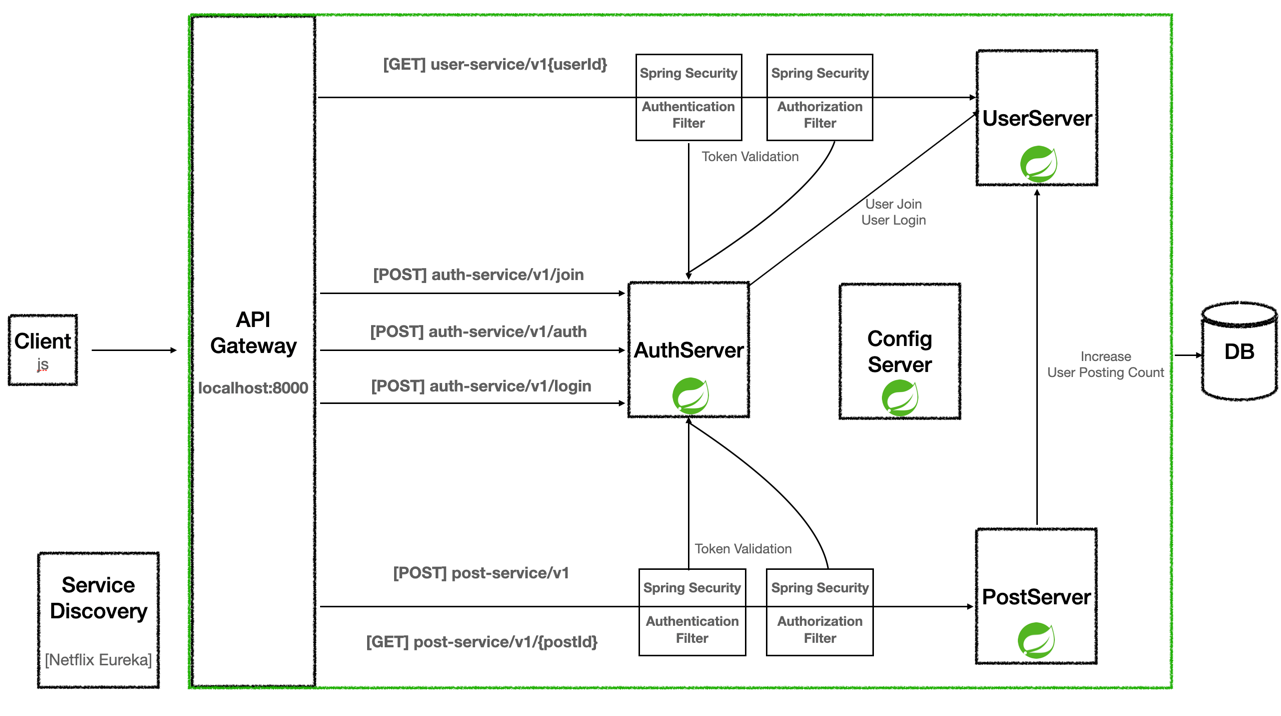
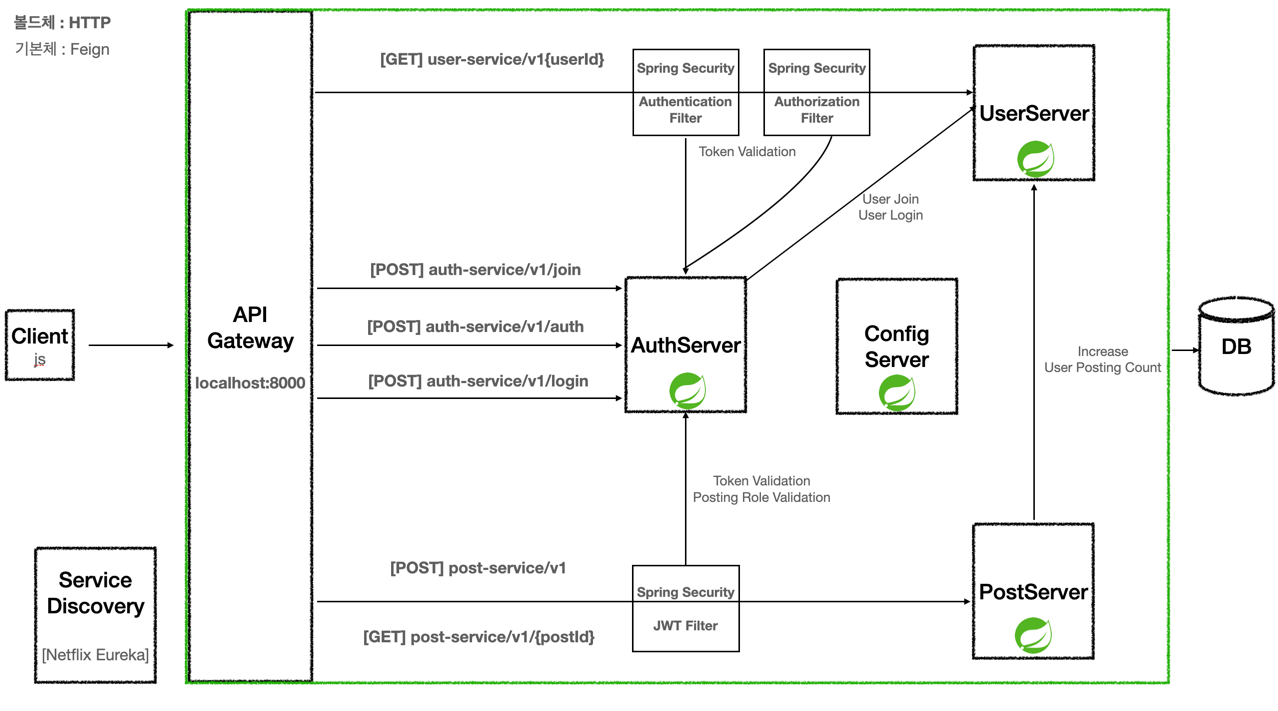
DOCS

diff --git a/diger-auth-server/src/main/java/com/smilegate/digerauthserver/feign/UserFeignClient.java b/diger-auth-server/src/main/java/com/smilegate/digerauthserver/feign/UserFeignClient.java
@@ -1,15 +1,14 @@
-package com.smilegate.digerauthserver.controller.feignclient;
+package com.smilegate.digerauthserver.feign;
 
 import com.smilegate.digerauthserver.controller.dto.request.JoinRequest;
 import com.smilegate.digerauthserver.controller.dto.request.LoginRequest;
-import com.smilegate.digerauthserver.controller.dto.response.UserTokenResponse;
 import com.smilegate.digerauthserver.controller.dto.response.UserResponse;
 import jakarta.validation.Valid;
 import org.springframework.cloud.openfeign.FeignClient;
 import org.springframework.web.bind.annotation.PostMapping;
 import org.springframework.web.bind.annotation.RequestBody;
 
-@FeignClient(name = "USER-SERVICE", url = "http://localhost:8081")
+@FeignClient(name = "user-service")
 public interface UserFeignClient {
 
     @PostMapping("/v1/join")

diff --git a/diger-auth-server/src/main/java/com/smilegate/digerauthserver/controller/usecase/AuthApplicationService.java b/diger-auth-server/src/main/java/com/smilegate/digerauthserver/controller/usecase/AuthApplicationService.java
@@ -5,7 +5,7 @@ import com.smilegate.digerauthserver.common.jwt.component.JwtPair;
 import com.smilegate.digerauthserver.controller.dto.request.JoinRequest;
 import com.smilegate.digerauthserver.controller.dto.request.LoginRequest;
 import com.smilegate.digerauthserver.controller.dto.response.UserResponse;
-import com.smilegate.digerauthserver.controller.feignclient.UserFeignClient;
+import com.smilegate.digerauthserver.feign.UserFeignClient;
 import lombok.RequiredArgsConstructor;
 import org.springframework.stereotype.Service;
 

diff --git a/diger-user-service/src/main/java/com/smilegate/digeruserservice/feign/JwtAuthFeign.java b/diger-user-service/src/main/java/com/smilegate/digeruserservice/feign/JwtAuthFeign.java
@@ -4,7 +4,7 @@ import org.springframework.cloud.openfeign.FeignClient;
 import org.springframework.web.bind.annotation.PostMapping;
 import org.springframework.web.bind.annotation.RequestHeader;
 
-@FeignClient(name = "AUTH-SERVICE")
+@FeignClient(name = "auth-service")
 public interface JwtAuthFeign {
 
     @PostMapping("/v1/auth")

diff --git a/README.md b/README.md
@@ -2,20 +2,34 @@
 
 ![](architecture.png)
 
-### 마일스톤 1
+---
 
-#### API Gateway사용
+## 마일스톤 1
+
+- API Gateway로 각 마이크로 서버에 요청이 로드밸런싱된다.
+  - Auth Server 
+  - User Server
+  - Post Server
 
 - 유저는 회원가입을 할 수 있다.
   - 유저는 로그인을 할 수 있다.
 
 - 유저는 게시글을 작성할 수 있다.
-  - 유저는 공지사항을 작성할 수 없다.
+  - 유저는 공지사항을 작성할 수 없다. (JWT Filter에서 인가가 거부된다.)
 
-- 관리자는 공지사항을 작성할 수 있다.
+- 관리자는 공지사항을 작성할 수 있다. (JWT Filter에서 인가가 허용된다.)
 
-### 마일스톤 2
+### Config Server
+
+- 모든 마이크로서버가 사용할 설정 파일을 관리한다.
+
+
+---
+
+## 마일스톤 2
 
 - 마이크로서버와 통신방식을 마일스톤 1의 OpenFeign에서 gRPC로 변경하기
 
 - API Gateway에서 직접적으로 서버 주소를 사용하는 것이 아닌 로드밸런싱을 사용하기 
+
+- Circuit Breaker를 통해 fault-tolerance(장애허용)를 확보한다.
